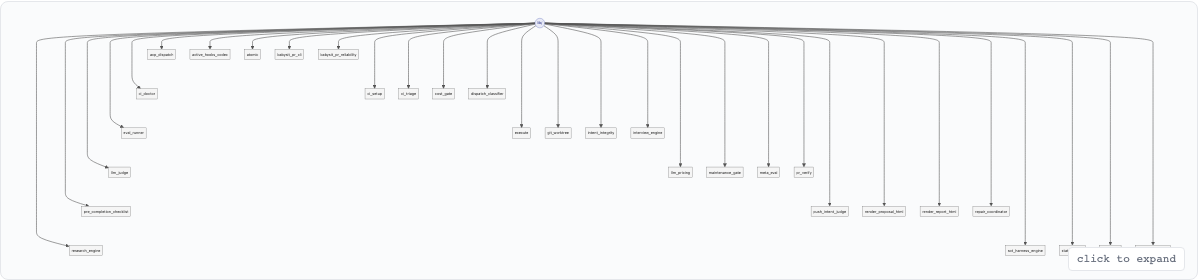
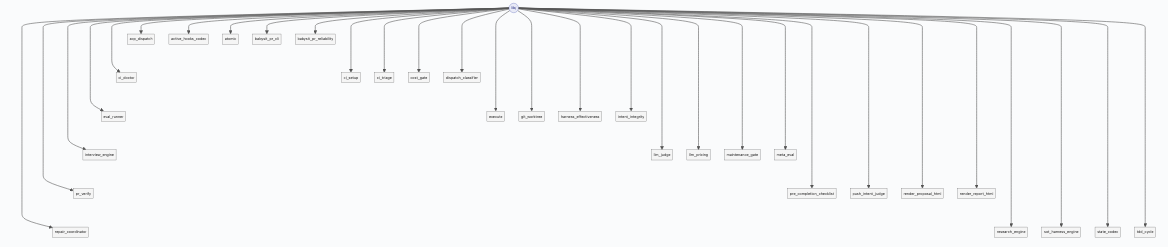
fix(code-viz): capture full per-diagram PNGs (no 72vh clip, no nav bleed) (#645)
The skills/code-viz screenshot pipeline was capturing the pre.mermaid
wrapper bbox, which was capped at max-height:72vh (648px) with
overflow:hidden. Long diagrams (security A01-A10, babysit-pr 15 steps,
plan 5 gates) were clipped at the bottom, and the sticky nav backdrop
plus the 'click to expand' badge bled into the PNG.

Fix in the screenshot subprocess:
  - lift the max-height/overflow cap on pre.mermaid before capture
  - screenshot the inner <svg> (whose viewBox is the natural diagram
    extent) rather than the pre.mermaid wrapper
  - hide the .nav and pre.mermaid::after elements via add_style_tag so
    they don't paint on top of the SVG bbox

Result: each diagram-NN.png is the full diagram at its natural size
(364x1219 for security, 648x1737 for babysit-pr, etc.) with no nav
bleed and no badge. README embeds fit the full content.

diff --git a/skills/code-viz/SKILL.md b/skills/code-viz/SKILL.md
@@ -973,11 +973,34 @@ with sync_playwright() as p:
     page = b.new_page(viewport={{"width":1400,"height":900}})
     page.goto("file://{out}", wait_until="networkidle", timeout=20000)
     page.wait_for_timeout(1500)
-    for i,el in enumerate(page.query_selector_all("pre.mermaid")):
-        el.scroll_into_view_if_needed()
-        page.wait_for_timeout(150)
+    # Hide the sticky nav so it doesn't overlap the SVG bbox (otherwise the
+    # top of the screenshot ends up rendered behind the nav, leaving the nav
+    # text visible inside the PNG), and hide the pre.mermaid::after "click to
+    # expand" badge that the user only sees on the live page (the badge is
+    # painted on top of the SVG inside the same bbox, so the SVG screenshot
+    # would otherwise capture it).
+    page.add_style_tag(content=".nav{{display:none!important}}pre.mermaid::after{{display:none!important}}")
+    for i, el in enumerate(page.query_selector_all("pre.mermaid")):
+        # The live page caps pre.mermaid at max-height:72vh + overflow:hidden so
+        # long skill-workflow diagrams don't push the page to absurd lengths on
+        # the live site. The README embed wants the FULL diagram, so we lift
+        # the cap on each element before capturing AND we screenshot the inner
+        # <svg> (whose viewBox is the natural diagram extent) rather than the
+        # pre.mermaid wrapper bbox. The svg.screenshot() path also avoids the
+        # "click to expand" ::after badge that the pre.mermaid wrapper would
+        # otherwise include.
+        page.evaluate(
+            "(el) => {{ el.style.maxHeight = 'none'; el.style.overflow = 'visible'; }}",
+            el,
+        )
+        page.wait_for_timeout(80)
+        svg = el.query_selector("svg")
+        if svg is None:
+            page.wait_for_timeout(200)
+            svg = el.query_selector("svg")
+        page.wait_for_timeout(60)
         out_png = "{screenshots}/diagram-{{:02d}}.png".format(i)
-        el.screenshot(path=out_png, omit_background=False)
+        svg.screenshot(path=out_png, omit_background=False)
         print("png=" + out_png)
     b.close()
 '''], capture_output=True, text=True, timeout=120)
